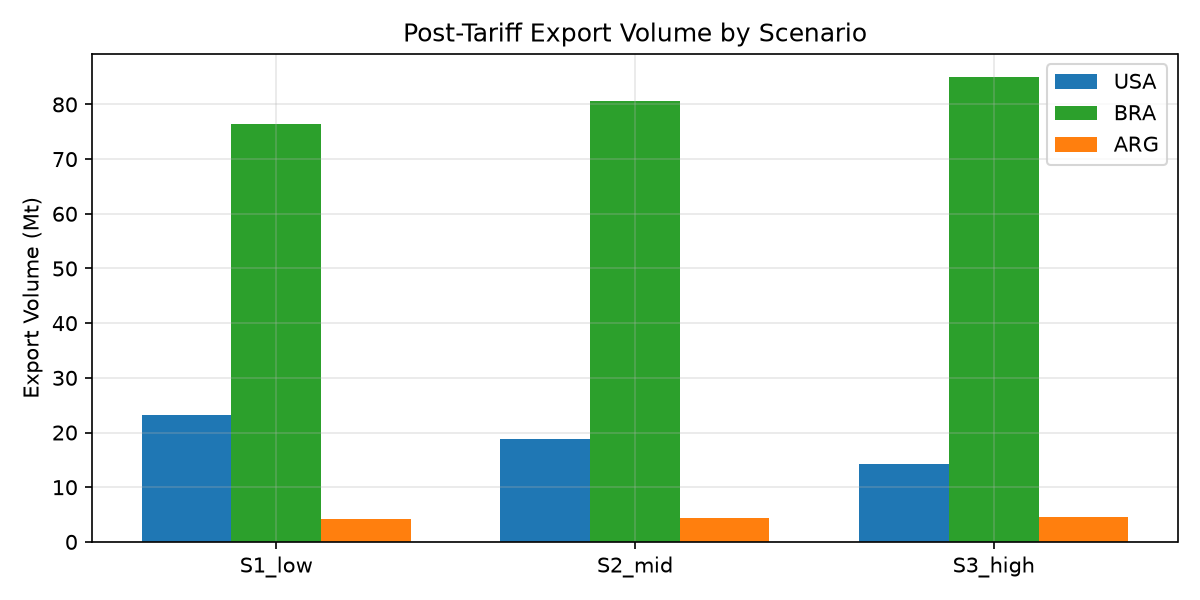
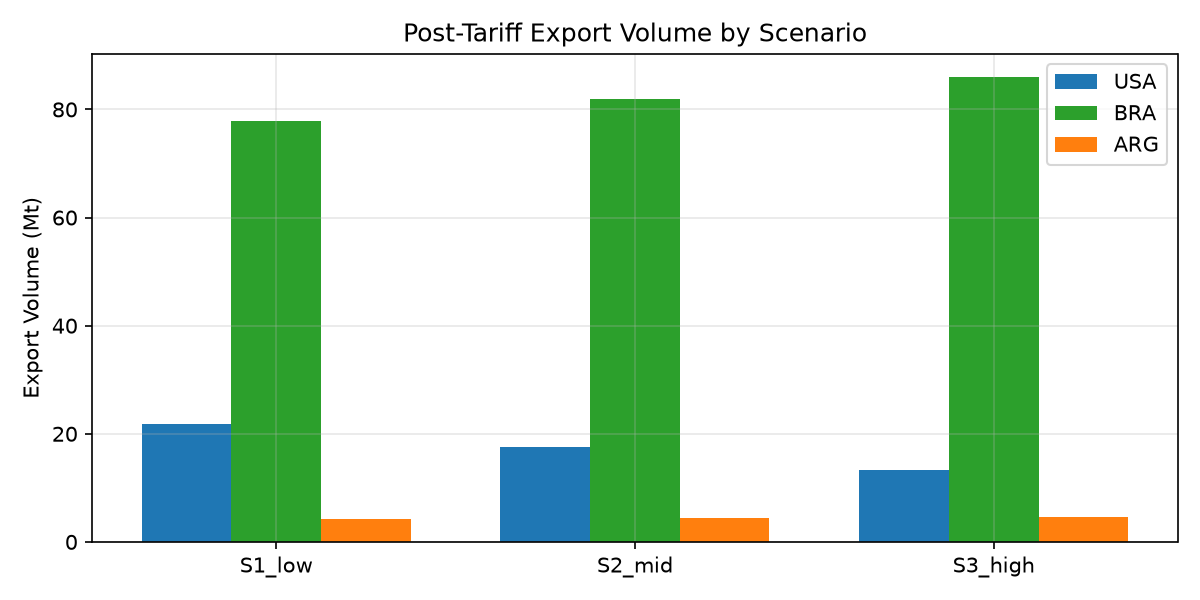
add：参数错误修正

diff --git a/python/Q1/common/ces_core.py b/python/Q1/common/ces_core.py
@@ -4,15 +4,17 @@ from __future__ import annotations
 
 def calibrate_alpha(base_share: dict, base_price: dict, base_tariff: dict,
                     sigma: float, countries: list[str]) -> dict:
-    """由基准年份额与含税价反推偏好参数 alpha_i。
+    """由基准年份额与含税价反推偏好参数 alpha_i（校准）。
 
-    公式：alpha_i = s_i^(1/sigma) * P_i0，其中 P_i0 = p_i*(1+base_tariff_i)。
-    当情景关税等于 base_tariff 时，模型精确还原基准年份额。
+    令情景关税等于 base_tariff 时模型精确还原基准年份额，要求：
+        alpha_i = s_i0^(1/sigma) * P_i0^((sigma-1)/sigma)，
+    其中 P_i0 = p_i*(1+base_tariff_i)。（指数 (sigma-1)/sigma 保证 tau=0 时
+    s_i = s_i0 精确成立；若误写为 *P_i0 则只能近似。）
     """
     alpha = {}
     for c in countries:
         p0 = base_price[c] * (1.0 + base_tariff.get(c, 0.0))
-        alpha[c] = (base_share[c] ** (1.0 / sigma)) * p0
+        alpha[c] = (base_share[c] ** (1.0 / sigma)) * (p0 ** ((sigma - 1.0) / sigma))
     return alpha
 
 

diff --git a/docs/Q1/第一问.md b/docs/Q1/第一问.md
@@ -24,6 +24,8 @@ Armington CES 模型
 **结果的可视化展示和合理化分析**
 1. 合理化分析--》不太会
     4.1 结论可以在过去的影子中找到--》不是第一次
+        可以去拟合过去的数据
+        可以去蕴含过去的数据(趋势修正)
     4.2 结论符合情理
     4.3 结论符合小模型得到的结果
     4.4 一些数值量的验证：如RME；或者可以经受实际案例的拷打
